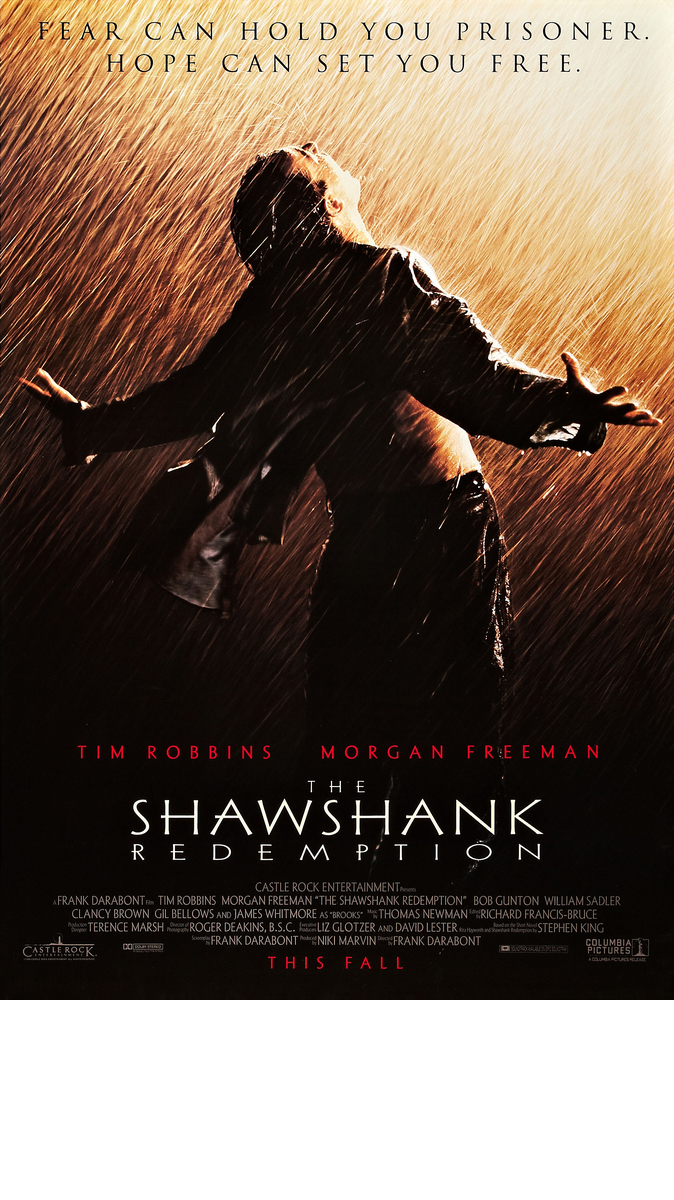
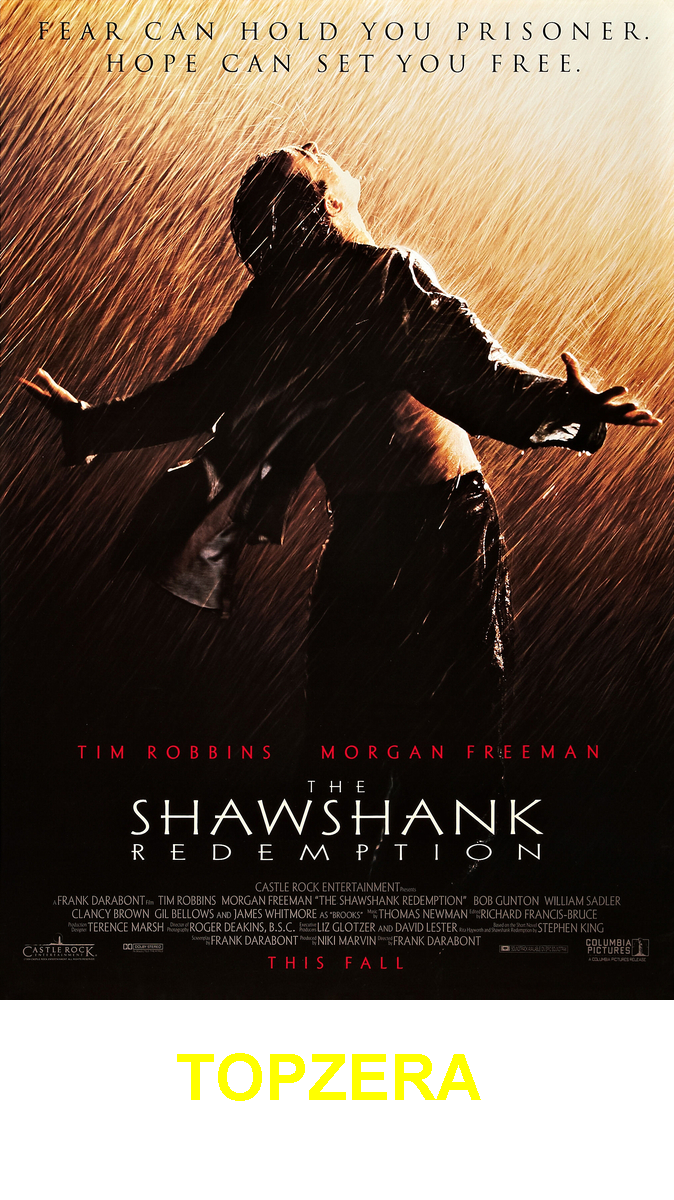
"Setting font style"

Changed region(s): [[0.2493, 0.8633, 0.7166, 0.925]]

diff --git a/src/GeradorDeFigurinhas.java b/src/GeradorDeFigurinhas.java
@@ -3,6 +3,9 @@ import java.awt.Graphics2D;
 import java.awt.image.BufferedImage;
 import javax.imageio.ImageIO;
 
+import java.awt.Color;
+import java.awt.Font;
+
 public class GeradorDeFigurinhas {
 
    /**
@@ -23,8 +26,13 @@ public void cria() throws Exception{
     Graphics2D graphics = (Graphics2D) novaImagem.getGraphics();
     graphics.drawImage(imagemOriginal, 0, 0, null);
 
+    // configurar a fonte
+    var fonte = new Font(Font.SANS_SERIF, Font.BOLD, 64);
+    graphics.setColor(Color.YELLOW);
+    graphics.setFont(fonte);
+
     // escrever uma frase na nova imagem 
-    graphics.drawString("TOPZERA", 0, novaAltura - 100);
+    graphics.drawString("TOPZERA", 175, novaAltura - 100);
 
     // escrever a nova imagem em um arquivo
     ImageIO.write(novaImagem, "png", new File("saida/figurinha.png"));
